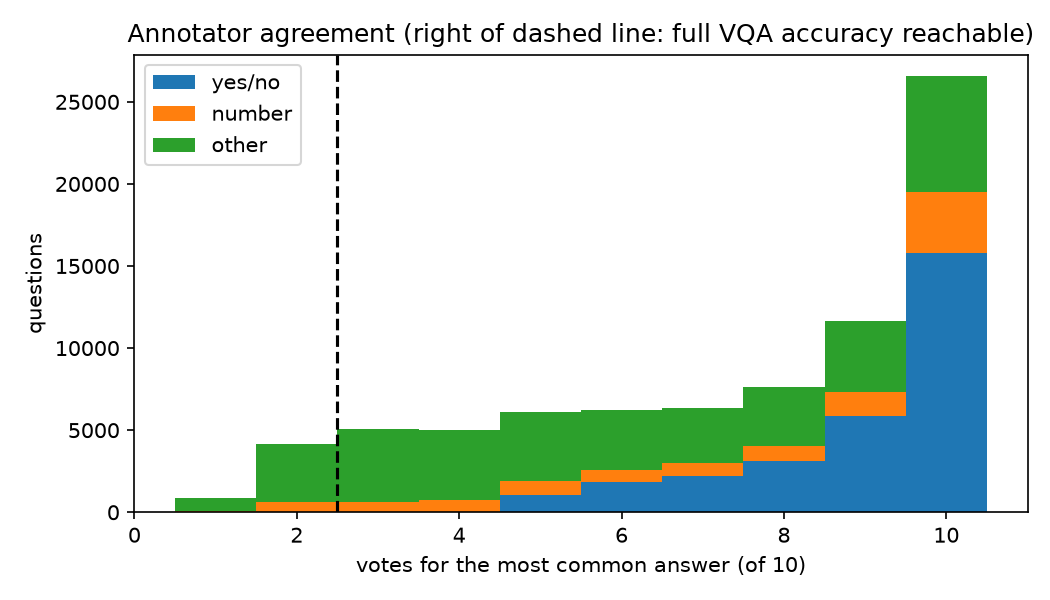
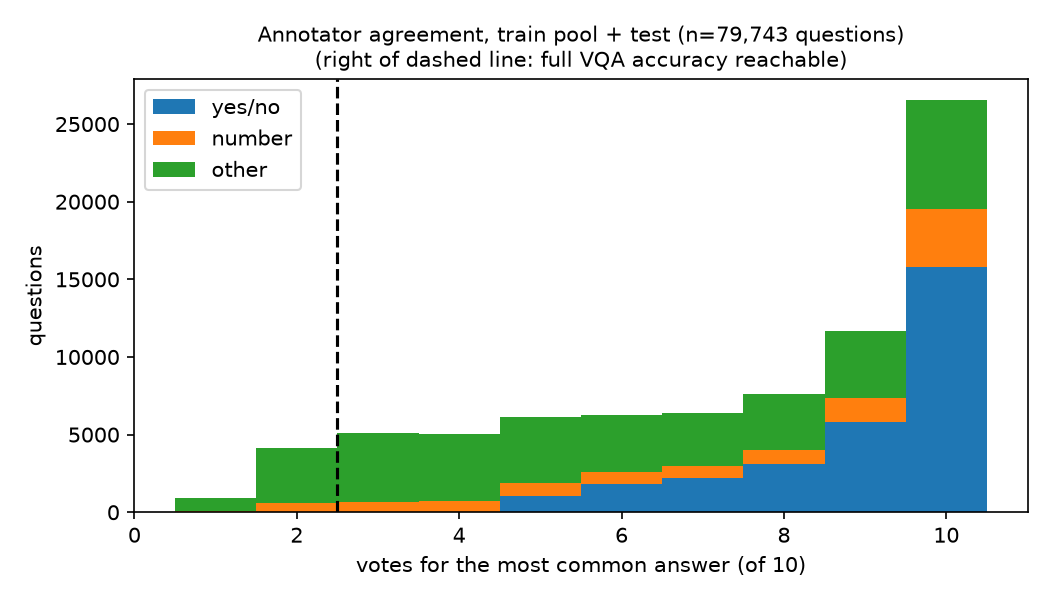
a3-eda: figure fixes, Table 5 relabel, Phase 3 log

diff --git a/assignment3/eda/vqa_eda.py b/assignment3/eda/vqa_eda.py
@@ -58,6 +58,8 @@ import matplotlib.pyplot as plt  # noqa: E402
 
 SPLITS = ("train2014", "val2014")
 ANSWER_TYPES = ("yes/no", "number", "other")
+# one colour per answer type, shared by F1, F2 and F6
+ANSWER_TYPE_COLORS = {"yes/no": "tab:blue", "number": "tab:orange", "other": "tab:green"}
 
 # ---------------------------------------------------------------------------
 # Answer normalisation - same rules as the official VQA evaluation script
@@ -518,7 +520,7 @@ def _save(fig_dir: Path, name: str):
     plt.close()
 
 
-def _grid(rows, data_dir: Path, title_fn, path: Path, ncols=3):
+def _grid(rows, data_dir: Path, title_fn, path: Path, ncols=3, suptitle=None):
     from PIL import Image
     rows = list(rows)
     if not rows:
@@ -536,6 +538,8 @@ def _grid(rows, data_dir: Path, title_fn, path: Path, ncols=3):
         axi.axis("off")
     for axi in list(axs.flat)[len(rows):]:
         axi.axis("off")
+    if suptitle:
+        fig.suptitle(suptitle, fontsize=11)
     plt.tight_layout()
     plt.savefig(path, dpi=110)
     plt.close()
@@ -549,19 +553,22 @@ def save_figures(sub_tr, sub_te, img_df, clip_df, out: Path, data_dir: Path, see
     # F1 answer types per subset
     ct = (both.groupby("subset")["answer_type"].value_counts(normalize=True)
           .mul(100).unstack(fill_value=0))
-    ct.plot(kind="bar", figsize=(6, 4))
-    plt.ylabel("% of questions"); plt.title("Answer type distribution"); plt.xticks(rotation=0)
+    ct = ct[[t for t in ANSWER_TYPES if t in ct.columns]]
+    ct.plot(kind="bar", figsize=(6, 4), color=[ANSWER_TYPE_COLORS[t] for t in ct.columns])
+    n_tr, n_te = len(sub_tr), len(sub_te)
+    plt.ylabel("% of questions"); plt.xticks(rotation=0)
+    plt.title(f"Answer type distribution\n(train pool n={n_tr:,} questions, test n={n_te:,})")
     _save(figs, "F1_answer_types.png")
 
     # F2 top-30 majority answers, coloured by answer type
     top = Counter(sub_tr["mc_answer"]).most_common(30)
     atype = sub_tr.groupby("mc_answer")["answer_type"].agg(lambda s: s.mode().iat[0])
-    colours = {"yes/no": "tab:blue", "number": "tab:orange", "other": "tab:green"}
+    colours = ANSWER_TYPE_COLORS
     plt.figure(figsize=(10, 4))
     plt.bar([a for a, _ in top], [c for _, c in top],
             color=[colours.get(atype.get(a), "gray") for a, _ in top])
     plt.xticks(rotation=70, ha="right"); plt.ylabel("questions")
-    plt.title("Top-30 majority answers (train pool)")
+    plt.title(f"Top-30 majority answers (train pool, n={n_tr:,} questions)")
     from matplotlib.patches import Patch
     plt.legend(handles=[Patch(color=c, label=t) for t, c in colours.items()], title="answer type")
     _save(figs, "F2_top30_answers.png")
@@ -572,41 +579,54 @@ def save_figures(sub_tr, sub_te, img_df, clip_df, out: Path, data_dir: Path, see
     plt.figure(figsize=(6, 4))
     plt.plot(np.arange(1, len(cum) + 1), cum)
     plt.xscale("log"); plt.grid(True, which="both", alpha=0.3)
-    for k in (100, 1000, 3000):
+    for k in (500, 1000, 2000, 3000):  # same K values as Table 5
         if k <= len(cum):
             plt.axvline(k, ls="--", c="gray")
+            plt.plot([k], [cum[k - 1]], "o", c="tab:red", ms=4)
             plt.text(k * 0.92, 35, f"K={k}: {cum[k - 1]:.1f}%", rotation=90, fontsize=8, ha="right")
     plt.xlabel("answer vocabulary size K (log)"); plt.ylabel("% of train-pool questions covered")
-    plt.title("Answer coverage vs vocabulary size")
+    plt.title(f"Answer coverage vs vocabulary size\n(train pool, n={n_tr:,} questions)", fontsize=10)
     _save(figs, "F3_answer_coverage_curve.png")
 
     # F4 question types
     qt = sub_tr["question_type"].value_counts(normalize=True).head(20).mul(100)[::-1]
     plt.figure(figsize=(7, 6))
     plt.barh(qt.index, qt.values); plt.xlabel("% of train-pool questions")
-    plt.title("Top-20 question prefixes (overlapping, not exclusive types)")
+    plt.title(f"Top-20 VQA question types (official question_type, mutually exclusive)\ntrain pool, n={n_tr:,} questions", fontsize=10)
     _save(figs, "F4_question_types.png")
 
-    # F5 question length, questions per image, answer length
-    fig, axs = plt.subplots(1, 3, figsize=(14, 3.5))
-    axs[0].hist(both["question"].str.split().str.len(), bins=range(1, 26))
-    axs[0].set_xlabel("words per question"); axs[0].set_title("Question length")
-    axs[1].hist(both.groupby("image_id").size(), bins=range(1, 16))
-    axs[1].set_xlabel("questions per image"); axs[1].set_title("Questions per image")
-    axs[2].hist(both["mc_answer"].str.split().str.len(), bins=range(0, 8))
-    axs[2].set_xlabel("words per majority answer"); axs[2].set_title("Answer length")
-    for a in axs:
-        a.set_ylabel("count")
+    # F5 question length, questions per image, answer length (train pool + test)
+    def int_hist(ax, vals, lo, cap):
+        """Integer histogram, bins centred on integers; values >= cap go in a labelled overflow bin."""
+        vals = np.asarray(vals)
+        ax.hist(np.minimum(vals, cap), bins=np.arange(lo - 0.5, cap + 1.5))
+        ticks = list(range(lo, cap + 1))
+        ax.set_xticks(ticks)
+        ax.set_xticklabels([str(t) for t in ticks[:-1]] + [f"{cap}+"], fontsize=7)
+        ax.set_xlim(lo - 0.5, cap + 0.5)
+        ax.set_ylabel("count")
+        return int((vals >= cap).sum())
+
+    fig, axs = plt.subplots(1, 3, figsize=(15, 3.8))
+    n_q, n_img = len(both), both["image_id"].nunique()
+    int_hist(axs[0], both["question"].str.split().str.len(), 1, 20)
+    axs[0].set_xlabel("words per question (last bin = 20 or more)"); axs[0].set_title("Question length")
+    int_hist(axs[1], both.groupby("image_id").size(), 3, 15)
+    axs[1].set_xlabel("questions per image (last bin = 15 or more)"); axs[1].set_title("Questions per image")
+    int_hist(axs[2], both["mc_answer"].str.split().str.len(), 0, 5)
+    axs[2].set_xlabel("words per majority answer (last bin = 5 or more)"); axs[2].set_title("Answer length")
+    fig.suptitle(f"Text lengths, train pool + test (n={n_q:,} questions, {n_img:,} images)", fontsize=11)
     _save(figs, "F5_lengths.png")
 
     # F6 annotator agreement by answer type
     agree = both.assign(votes=both["answers"].apply(top_votes))
     plt.figure(figsize=(7, 4))
     data = [agree.loc[agree["answer_type"] == t, "votes"] for t in ANSWER_TYPES]
-    plt.hist(data, bins=np.arange(0.5, 11.5, 1), stacked=True, label=list(ANSWER_TYPES))
+    plt.hist(data, bins=np.arange(0.5, 11.5, 1), stacked=True, label=list(ANSWER_TYPES),
+             color=[ANSWER_TYPE_COLORS[t] for t in ANSWER_TYPES])
     plt.axvline(2.5, ls="--", c="k")
     plt.xlabel("votes for the most common answer (of 10)"); plt.ylabel("questions")
-    plt.title("Annotator agreement (right of dashed line: full VQA accuracy reachable)")
+    plt.title(f"Annotator agreement, train pool + test (n={len(agree):,} questions)\n(right of dashed line: full VQA accuracy reachable)", fontsize=10)
     plt.legend()
     _save(figs, "F6_annotator_agreement.png")
 
@@ -617,6 +637,7 @@ def save_figures(sub_tr, sub_te, img_df, clip_df, out: Path, data_dir: Path, see
         fig, axs = plt.subplots(1, 2, figsize=(10, 4))
         axs[0].scatter(okimg["width"], okimg["height"], s=3, alpha=0.3)
         axs[0].set_xlabel("width (px)"); axs[0].set_ylabel("height (px)"); axs[0].set_title("Image sizes")
+        fig.suptitle(f"Image dimensions, train pool + test (n={len(okimg):,} images)", fontsize=11)
         axs[1].hist(okimg["width"] / okimg["height"], bins=40)
         axs[1].set_xlabel("aspect ratio (w/h)"); axs[1].set_title("Aspect ratios")
         _save(figs, "F7_image_sizes.png")
@@ -630,22 +651,29 @@ def save_figures(sub_tr, sub_te, img_df, clip_df, out: Path, data_dir: Path, see
 
         # F8 random example pairs
         _grid(pool.sample(min(9, len(pool)), random_state=rng_state).itertuples(),
-              data_dir, title, figs / "F8_example_pairs.png")
+              data_dir, title, figs / "F8_example_pairs.png",
+              suptitle=f"F8: 9 random pairs from train pool (n={len(pool):,} questions, seed {seed})")
         # F9 low-agreement examples (pair-quality problems)
         low = pool[pool["answers"].apply(top_votes) < 3]
+        # excluded from the display: majority-vote answer list contains an offensive word
+        low = low[low["question_id"] != 183071006]
         _grid(low.sample(min(9, len(low)), random_state=rng_state).itertuples(),
-              data_dir, title, figs / "F9_low_agreement_examples.png")
+              data_dir, title, figs / "F9_low_agreement_examples.png",
+              suptitle=f"F9: 9 random low-agreement pairs (<3 top votes) from train pool "
+                       f"(n={len(low):,} such questions, seed {seed})")
 
     if clip_df is not None and len(clip_df):
         plt.figure(figsize=(6, 4))
         plt.hist(clip_df["clip_sim"], bins=50)
         plt.xlabel("CLIP cosine(image, question + answer)"); plt.ylabel("pairs")
-        plt.title("CLIP pair similarity")
+        plt.title(f"CLIP pair similarity, train pool + test (n={len(clip_df):,} pairs)")
         _save(figs, "F10_clip_similarity.png")
         lowest = clip_df.nsmallest(9, "clip_sim")
         _grid(lowest.itertuples(), data_dir,
               lambda r: f"sim={r.clip_sim:.3f}\nQ: {r.question}\nA: {r.mc_answer}",
-              figs / "F11_lowest_clip_pairs.png")
+              figs / "F11_lowest_clip_pairs.png",
+              suptitle=f"F11: 9 lowest CLIP similarity of {len(clip_df):,} pairs (train pool + test); "
+                       "examples only, not a mismatch rate")
 
 
 # ---------------------------------------------------------------------------
@@ -707,7 +735,7 @@ def proposal_tables(s: dict) -> str:
                  f"{g(im, 'width', 'max')} |")
         L.append(f"| height px (median / min / max) | {g(im, 'height', 'median')} / {g(im, 'height', 'min')} / "
                  f"{g(im, 'height', 'max')} |")
-    L += ["", "## Table 5 - Answer vocabulary options (built on train pool only)", "",
+    L += ["", "## Table 5 - Test-set ceiling (vocab from train pool), descriptive only, not used to choose K", "",
           "| Option | Vocab size K | Train-pool coverage % | Test coverage % | Test oracle VQA acc % |",
           "|---|---|---|---|---|"]
     for k, v in s["answer_vocab_from_train_pool"].items():

diff --git a/assignment3/eda/PHASE3_LOG.md b/assignment3/eda/PHASE3_LOG.md
@@ -1,0 +1,132 @@
+# Phase 3 log: VQA v2 download and EDA (CO3133 Assignment 3)
+
+Self-contained record of Phase 3. Read this first in a new session. Task: VQA v2 framed as answer
+classification over the top-K answers. Kit: `vqa_eda.py`, `audit.py`, `PHASE3_GUIDE.md`,
+`requirements-eda.txt`. Date of work: 2026-11-18. Phase 3 PR #13 is merged into `main`.
+
+## Standing rules (from the user)
+- Never add a `Co-Authored-By` trailer or any Claude/AI attribution to commits, PRs or repo files.
+- Don't push without asking; don't merge PRs (the user merges; `main` needs 1 approving review).
+- Don't change the subset rules, seed (261), 10k train / 5k test images, or the metrics.
+- Never fill in audit labels without the user's explicit verdicts.
+- Ask before any download over 1 GB. Commit only code and small outputs; raw data and images are gitignored.
+- A normal rerun of `vqa_eda.py` into `eda_outputs/` overwrites `audit_sample.csv` (the user's 100 verdicts).
+  To regenerate figures, run into a scratch `--out-dir` and copy the PNGs you need.
+
+## 1. Setup and data
+- Venv `assignment3/eda/.venv` (Python 3.14.4) already had the `requirements-eda.txt` packages plus torch 2.15 and
+  transformers 5.23 (the user installed them in guide step 3.1). Nothing else was installed.
+- Annotations downloaded 2026-11-18 from `s3.amazonaws.com/cvmlp/vqa/mscoco/vqa/` (about 43 MB): VQA v2 train and val
+  questions and annotations, unzipped to `data/vqa_v2/` (date in `data/vqa_v2/DOWNLOAD_DATE.txt`).
+- Images: about 2.4 GB (15,000 COCO images) downloaded by the script after the user approved. Plus the BERT tokenizer
+  and CLIP weights.
+- `assignment3/eda/.gitignore` ignores `data/`, `run2.log`, and most of `eda_outputs/`. It re-includes
+  `proposal_tables.md`, `summary.json`, `figures/`, `subset/*.txt`, `subset/*_question_ids.csv`,
+  `subset/near_dups_*.csv`, `audit_sample.csv` and `audit_summary.json`.
+
+## 2. Commands run (in `assignment3/eda/`)
+- Run 1 (annotations only): `.venv/bin/python -I vqa_eda.py --data-dir data/vqa_v2 --out-dir eda_outputs` (26 s).
+- Run 2 (full): same plus `--images --workers 16 --tokenizer bert-base-uncased --clip openai/clip-vit-base-patch32`
+  (about 25 min, seed 261, 10k train images, 5k test images).
+- `audit.py html --audit eda_outputs/audit_sample.csv --data-dir data/vqa_v2 --out eda_outputs/audit_sheet.html`
+- `audit.py summary --audit eda_outputs/audit_sample.csv --out eda_outputs/audit_summary.json`
+- No script broke on real data, so there were no bug fixes. The only code changes are cosmetic plot edits (section 7).
+
+## 3. Findings
+- Full splits match the official counts: train2014 82,783 images / 443,757 questions; val2014 40,504 / 214,354.
+  Train/val image overlap is 0.
+- Subset: train pool 10,000 images / 53,522 questions; test 5,000 images / 26,221 questions (val2014).
+- 0 missing or corrupt images (missing-modality rate 0%). Sizes: median 640x480, min 120x130, max 640x640.
+- 0 broken question/annotation/image links.
+- Near-duplicates: 3 flagged pairs inside the train pool, none in test or across splits. User review: 9878/141785
+  real duplicate, 167028/224112 real duplicate, 406749/412172 false alarm (violet vs pink flowers). Phase 4: drop
+  one image from each real pair. Review file: `eda_outputs/subset/near_dups_within_trainpool_review.csv`.
+- 6 duplicate (image, question) pairs per subset (cause not investigated). 6 empty majority answers per subset.
+  1 test question under 3 words. No non-ASCII text.
+- Agreement: top answer has >=3 votes in 93.82% (train pool) / 93.33% (test); all 10 agree 33.35% / 33.2%.
+- Language prior (test VQA accuracy): always "yes" 23.92%; best per-question-type rule 31.8%
+  (63.47% yes/no, 26.64% number, 9.19% other).
+- Representativeness (TVD): at most 0.016 against the full splits.
+- BERT tokens: mean 9.4, p95 13, max 27; 0.88% over 16 tokens; a max length of 24 covers 99.99%.
+- CLIP similarity: mean 0.241 (train) / 0.243 (test) over 79,743 pairs.
+- Manual audit (n = 100, the user's own verdicts, transcribed by Claude): 98 matched, 1 weak, 1 mismatched
+  (Wilson 95% CI: matched 93.0-99.4%, weak 0.2-5.4%, mismatched 0.2-5.4%). Card 47 mismatched ("How much is a cronut?",
+  no price shown); card 57 weak (three arrows, question denotes one). File: `eda_outputs/audit_summary.json`.
+
+## 4. Outputs
+Committed: `proposal_tables.md` (Tables 1-8), `summary.json` (with input sha256s and JSON headers), figures F1-F11,
+`subset/*.txt` and `*_question_ids.csv`, `near_dups_*.csv` (+ review), `audit_sample.csv`, `audit_summary.json`.
+Not committed (gitignored): raw data and images, `audit_sheet.html`, `clip_pair_similarity.csv`,
+`image_checks.csv`, `run2.log`.
+
+## 5. Git history
+PR #13 (`feat/a3-eda`, merged 2026-11-18): EDA kit and outputs; audit and summary; near-duplicate review; plot-label
+fixes for F2-F5; `.gitignore` tidy. PR #13 needed an approving review before it merged. The figure fixes below are on
+branch `feat/a3-eda-figfix`.
+
+## 6. Open items
+- Phase 4: drop one image from each real near-duplicate pair; decide what to do with duplicate (image, question) pairs.
+- Phase 5: choose K and the max sequence length (see the Table 5 note below).
+- Report: caption F1, F8-F11 as examples/subsets, as set out in the notes below.
+
+---
+
+## Figure fixes and checks (2026-11-18)
+
+### F1-F11 fixes (all plotting code in `vqa_eda.py`; metrics, seed and subset rules untouched)
+1. **F4:** title is now "Top-20 VQA question types (official question_type, mutually exclusive)". An earlier interim title
+   called these overlapping prefixes; that was wrong. The data is VQA's official `question_type` field (read from the
+   annotations at `vqa_eda.py` line 183), so the types are mutually exclusive. Names such as "what is the" and "is this a"
+   are the official type names.
+2. **Colours:** one `ANSWER_TYPE_COLORS` map (yes/no blue, number orange, other green) shared by F1, F2, F6.
+3. **Subset and n in every aggregate title.** Data actually used: F1 train pool (53,522) and test (26,221);
+   F2, F3, F4 train pool only; F5, F6, F10 train pool + test (79,743 questions; F5 also 15,000 images);
+   F7 15,000 images; F8 and F9 train pool; F11 train pool + test.
+   F8, F9, F11 carry a suptitle with subset, n and seed.
+4. **F5:** bins centred on integers; overflow bins labelled "20+" (question words), "15+" (questions per image),
+   "5+" (answer words); y-axis "count".
+5. **F3:** markers at K = 500, 1000, 2000, 3000 (coverage 83.4%, 88.4%, 92.9%, 95.0%), matching Table 5; title wrapped
+   so it is not cut off.
+6. **F9:** question_id 183071006 ("What type of hat is the dog wearing?", answers include an offensive word) excluded in
+   code, then resampled with seed 261. The nine new panels were checked and are clean.
+7. **F2:** added an answer-type legend. **F7:** n moved to a single title over both panels.
+8. Earlier (also on `main`): F2 legend, F3 label overlap, F4 title, F5 y-labels.
+- Regeneration method: full script run into a scratch folder (one run included CLIP, 10.5 min) and PNGs copied in.
+  Subset id files were byte-identical, and all numeric entries in `summary.json` matched the committed ones.
+  `audit_sample.csv` was never touched.
+- Figures are not individually re-verified by anyone else: Haiku reviewed the first versions and Claude opened all
+  eleven after the final fixes. The user should still look at them before they go in the report.
+
+### F11 "checkers" lookup (genuine VQA v2 annotation mismatch)
+Caption/note for F11: *"Includes a genuine VQA v2 annotation mismatch (qid 82157001: checkerboard-floor question
+attached to image 82157, which has no floor)."* F11 shows examples only, never a mismatch rate.
+- Raw `v2_OpenEnded_mscoco_val2014_questions.json` and `v2_mscoco_val2014_annotations.json`: question_id 82157001,
+  "What game is played on a board with a similar pattern to this floor?", answer "checkers", image_id **82157**.
+- The F11 panel loads `COCO_val2014_000000082157.jpg` (image_id 82157, val2014): a bearded man holding a pink bitten donut
+  against a black background, no board and no floor. `clip_pair_similarity.csv` has one row for this question, also
+  image_id 82157 / val2014, so the panel and ids agree. It is not a pipeline id mix-up.
+- Image 82157 has **64 questions** in the raw val file; the other 63 are about the man, the donut, his shirt, etc.
+  (for example "What is he eating?", "What flavor donut is this?"). The checkers question is the odd one out.
+- Coincidence noted: F9's bathroom image (train2014 image_id **490596**, question 490596077 "What is the date when the
+  photo was taken?") has a checkered floor, which the checkers question would fit. The ids do not link the two,
+  so do not claim that it is the source image.
+
+### Table 5 vocabulary: train pool only (verified in code)
+The answer vocabulary for Table 5 (oracle VQA accuracy by K) is built from the train pool only; the test set is used
+only to evaluate coverage and the oracle ceiling.
+- `vqa_eda.py` line 825: `s["answer_vocab_from_train_pool"] = vocab_options(sub_tr, sub_te)`
+- `vocab_options(train, test)` (line 337): `counts = Counter(train["mc_answer"])`, then `ranked = [a for a, _ in counts.most_common()]`;
+  the min-count sets come from `counts`; the top-K sets are `set(ranked[:k])` for k in (500, 1000, 2000, 3000).
+- Test is touched only at lines 347-349: `test["mc_answer"].isin(v)` for coverage and `oracle_accuracy(g, v)` over `test["answers"]`.
+- Because the test subset only measures a ceiling, Table 5 is now labelled: **"Test-set ceiling (vocab from train pool),
+  descriptive only, not used to choose K."** (changed both in `proposal_tables.md` and in the generator string at
+  `vqa_eda.py` line 738). The earlier guide text said to choose K from this table; per the user's decision it is not used for that.
+  So K must be chosen another way in Phase 5 (for example a validation split built from the train pool).
+- Table 5 values for reference (test oracle VQA acc %): min_count_3 K=1,393 89.38; min_count_5 K=830 87.51;
+  min_count_9 K=476 84.69; top_500 84.97; top_1000 88.23; top_2000 90.35; top_3000 90.89.
+
+### Cleanups and caveats
+- `int_hist` in `vqa_eda.py` returns an overflow count that nothing uses (harmless).
+- `summary.json` records Run 2's timestamp; the figures were redrawn later from the updated script.
+- Two background wait-loops I started earlier matched their own command line in `pgrep -f` and never exited;
+  they were killed. If you wait for a script, poll its PID or log instead of `pgrep -f` on the script name.

diff --git a/assignment3/eda/eda_outputs/proposal_tables.md b/assignment3/eda/eda_outputs/proposal_tables.md
@@ -44,7 +44,7 @@
 | width px (median / min / max) | 640.0 / 120.0 / 640.0 |
 | height px (median / min / max) | 480.0 / 130.0 / 640.0 |
 
-## Table 5 - Answer vocabulary options (built on train pool only)
+## Table 5 - Test-set ceiling (vocab from train pool), descriptive only, not used to choose K
 
 | Option | Vocab size K | Train-pool coverage % | Test coverage % | Test oracle VQA acc % |
 |---|---|---|---|---|
